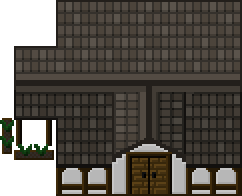
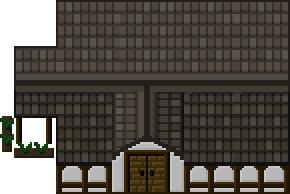
updated house 2

diff --git a/site/assets.js b/site/assets.js
@@ -47,6 +47,7 @@ var imgs = [
 	{ix:45,name:'inside',path:'structures/inside.png'},
 	{ix:46,name:'Demon',path:'enemies/Demon.png'},
 	{ix:47,name:'Villager',path:'villager/00.png'},
+	{ix:48,name:'house2',path:'levelitems/house/house2.png'},
 ];
 
 class Tri1 extends Sprite{
@@ -849,3 +850,20 @@ class Villager extends Sprite{
 	}
 }
 
+class house2 extends Sprite {
+	constructor(x, y) {
+		super('levelitems/house/house2.png');
+		this.position = new Vector(x, y);
+		sprites.push(this);
+		this.addMovement(this.enter);
+		this.alpha = 1;
+	}
+	enter() {
+		let d = this.distanceTo(player);
+		if (d < this.w / 2) {
+			this.alpha = Math.max((this.alpha - .05), 0);
+		} else {
+			this.alpha = Math.min((this.alpha + .05), 1);
+		}
+	}
+}
